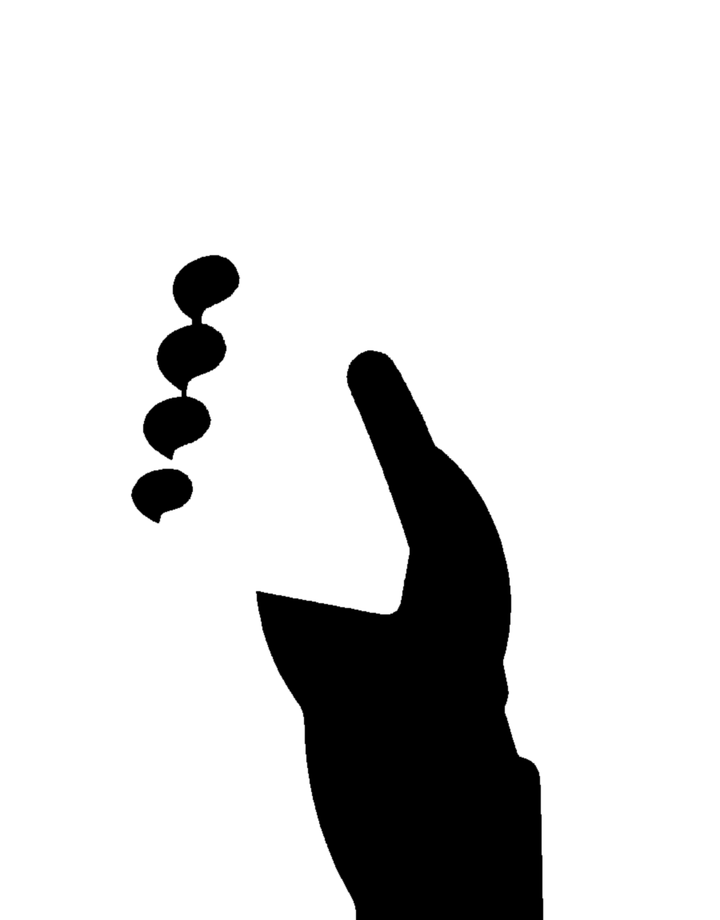
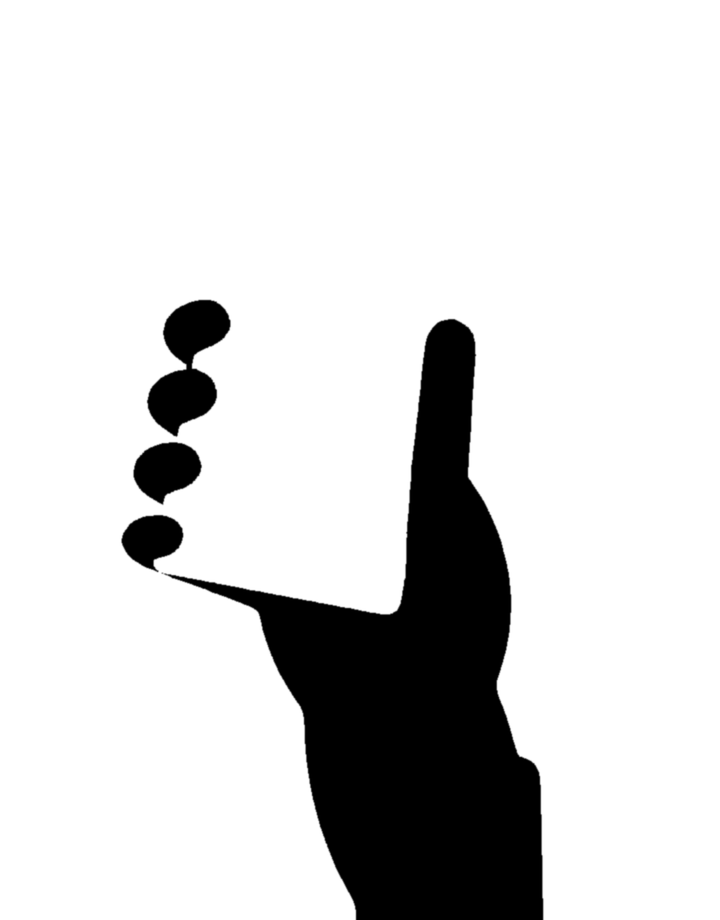
Karmapolis 0.79.1: pollice appoggiato sul lato destro del telefono, come in GTA
Claude-Session: https://claude.ai/code/session_014aG1BPmnfW4DkrHjrCXBkN

Changed region(s): [[0.1528, 0.2739, 0.3667, 0.6696], [0.4583, 0.3348, 0.6722, 0.6087], [0.6722, 0.7304, 0.7028, 0.7609]]

diff --git a/index.html b/index.html
@@ -157,7 +157,7 @@ body.phoneOn .hud.top,body.phoneOn #compass,body.phoneOn #greyHud,body.phoneOn #
 #phone{position:fixed;z-index:60;left:57%;bottom:-14vh;height:118vh;aspect-ratio:720/920;pointer-events:none;isolation:isolate;transform:translate(-50%,105%);transition:transform .26s cubic-bezier(.2,1.1,.35,1.06)}
 body.phoneOn #phone{transform:translate(-50%,0)}
 #phone>img{position:absolute;inset:0;width:100%;height:100%;user-select:none}
-#phone .skin{position:absolute;inset:0;background:var(--skin,#d9a27a);mix-blend-mode:multiply;-webkit-mask:url(telefono/mano-maschera.png) 0 0/100% 100% no-repeat;mask:url(telefono/mano-maschera.png) 0 0/100% 100% no-repeat}
+#phone .skin{position:absolute;inset:0;background:var(--skin,#d9a27a);mix-blend-mode:multiply;-webkit-mask:url(telefono/mano-maschera.png?v=0791) 0 0/100% 100% no-repeat;mask:url(telefono/mano-maschera.png?v=0791) 0 0/100% 100% no-repeat}
 #phone .scr{position:absolute;left:0;top:0;width:260px;height:480px;transform-origin:0 0;background:#14121c;border-radius:6px;overflow:hidden;pointer-events:auto;display:flex;flex-direction:column;color:#f4f1ea;font:500 15px/1.35 var(--body)}
 #phone .sbar{display:flex;justify-content:space-between;padding:5px 12px 3px;font:600 12px var(--body);opacity:.8}
 #phone .ptop{display:flex;align-items:center;gap:6px;background:#2c2a35;padding:8px 8px;font:700 18px var(--display)}
@@ -218,7 +218,7 @@ body.phoneOn #phone{transform:translate(-50%,0)}
 <canvas id="c" aria-label="Paesino in 3D visto dall'alto, stile cartone animato"></canvas>
 <div id="vig"></div>
 <div id="rotate"><div><div class="ph">📱</div><p>Gira il telefono in orizzontale<br>per giocare a Karmapolis</p><button id="rotFull" type="button">⛶ Schermo intero</button><p style="font-size:13px;opacity:.75;margin-top:14px">Su iPhone controlla che il blocco rotazione sia spento</p></div></div>
-<div id="phone" aria-hidden="true"><img src="telefono/telefono-mano.webp" alt="" draggable="false"><div class="skin"></div><div class="scr"><div class="sbar"><span id="phClock">12:00</span><span>📶 🔋</span></div><div class="ptop"><button id="phBack" type="button" aria-label="Indietro">‹</button><b id="phTitle">Karmapolis</b><span class="bolt">⚡</span></div><div class="pbody" id="phBody"></div></div></div>
+<div id="phone" aria-hidden="true"><img src="telefono/telefono-mano.webp?v=0791" alt="" draggable="false"><div class="skin"></div><div class="scr"><div class="sbar"><span id="phClock">12:00</span><span>📶 🔋</span></div><div class="ptop"><button id="phBack" type="button" aria-label="Indietro">‹</button><b id="phTitle">Karmapolis</b><span class="bolt">⚡</span></div><div class="pbody" id="phBody"></div></div></div>
 <div id="phoneToast" role="status"></div>
 <div id="tvHint" aria-live="polite"><div class="tb">📺 Ti consiglio di guardare il tutorial!</div><div class="ta"></div></div>
 <div id="news" role="dialog" aria-label="Novità della versione"><div class="nbox"><div class="nhead"><h2 id="newsTitle">📋 Novità</h2><p>Karmapolis è in prova (beta): ecco cosa è cambiato.</p></div><div class="nbody" id="newsBody"></div><div class="nfoot"><small id="newsWait">Sto costruendo il paese…</small><button id="newsGo" type="button" disabled>▶ Gioca</button></div></div></div>
@@ -250,7 +250,7 @@ body.phoneOn #phone{transform:translate(-50%,0)}
 <div id="copMenu" class="menuov" hidden><div class="card"><h3>👮 Fermato dalla polizia!<small id="copWhy">"Documenti, prego. Può pagare la multa… oppure viene con noi."</small></h3><div class="exl"><button id="copFine" type="button">💸 Paga la multa <small id="copFineTxt"></small></button><button id="copJail" type="button" style="background:#5d5468">🔒 Vado in prigione <small>da solo nessuno può pagarti la cauzione: livello perso</small></button></div></div></div>
 <div id="over" hidden><div class="card"><h2 id="goTitle">Game over</h2><p id="goStars" style="font-size:34px;margin:0 0 6px;letter-spacing:4px"></p><p id="goText"></p><div class="tbtn"><button id="restart" type="button">Ricomincia</button><button id="goNext" type="button" hidden style="background:#3fa66b">Livello successivo ▶</button></div><button id="goHomeBtn" class="ghost" type="button" style="margin-top:8px">🏠 Torna a casa</button></div></div>
 <div class="hud top"><div class="row">
-  <div class="card" id="titleCard"><h1 id='devTitle'>Karmapolis 0.79.0</h1><button id='helpBtn' class='ghost' type='button' hidden>❔ Comandi</button><button id='devReset' type='button' hidden style='background:#e0483e;color:#fff;font-weight:700;margin:4px 0'>🛠 RESET TOTALE (sviluppatore)</button>
+  <div class="card" id="titleCard"><h1 id='devTitle'>Karmapolis 0.79.1</h1><button id='helpBtn' class='ghost' type='button' hidden>❔ Comandi</button><button id='devReset' type='button' hidden style='background:#e0483e;color:#fff;font-weight:700;margin:4px 0'>🛠 RESET TOTALE (sviluppatore)</button>
     <p id='howto'>Joystick (o frecce/WASD) per muoverti. Vicino all'auto o allo scooter premi <b>Sali</b> (tasto E): in guida spingi il joystick dove vuoi andare (da vicino: su = gas, lati = sterzo). Trascina per ruotare la città, pizzica per lo zoom. Vicino ai passanti: 🍬 caramella o la cura giusta (😄 nervosi, 👂 solitari, 🌬 ansiosi, 🗣 pettegoli). Prova anche campane, fontana e panchine in piazza. Tocca per andare, <b>doppio tocco o levetta tutta in fondo per lo scatto</b>.</p></div>
   <div class="card" id="msg">Benvenuto in paese!</div>
 </div></div>
@@ -275,6 +275,7 @@ body.phoneOn #phone{transform:translate(-50%,0)}
 <script>/* 📋 Novità della versione (Teo, 26/11/2026: "come fanno tutti quando un programma è in beta") — la prima voce è la versione attuale */
 (function(){
 var NEWS=[
+ {v:'0.79.1',d:'26/11/2026',t:['📱 Pollice appoggiato sul lato destro del telefono, come in GTA; contorno della mano più liscio.']},
  {v:'0.79.0',d:'26/11/2026',t:['📱 Mano e telefono rifatti in 3D con Blender: mano vera che lo stringe, pollice sul bordo, in stile cartone, del colore della tua pelle.']},
  {v:'0.78.2',d:'26/11/2026',t:['Tornato il pulsante ⛶ dello schermo intero in basso a destra.']},
  {v:'0.78.1',d:'26/11/2026',t:['📱 Telefono con l\u2019inquadratura di GTA: la telecamera va agli occhi del personaggio, il telefono in mano al centro, inclinato, con lo sfondo sfocato.']},

diff --git a/strumenti/telefono-mano-cartone.py b/strumenti/telefono-mano-cartone.py
@@ -1,0 +1,19 @@
+from PIL import Image, ImageFilter, ImageChops
+import numpy as np, json, os
+a=Image.open('hand/base.png').convert('RGBA'); m=Image.open('hand/mask.png').convert('L')
+A=np.array(a).astype(np.float32); M=np.array(m)>127; alpha=A[...,3]>8
+L=(A[...,0]*0.3+A[...,1]*0.59+A[...,2]*0.11)/255
+band=np.where(L>0.78,1.0,np.where(L>0.56,0.84,0.68))
+for c in range(3): A[...,c]=np.where(M,band*255,A[...,c])
+def edge(mask,r):
+    im=Image.fromarray((mask*255).astype(np.uint8)); d=np.array(im.filter(ImageFilter.MaxFilter(r)))>127; e=np.array(im.filter(ImageFilter.MinFilter(r)))>127; return d&~e
+ink=np.array([42,34,51],np.float32); E=edge(alpha,7)|edge(M,5)
+Ef=np.array(Image.fromarray((E*255).astype(np.uint8)).filter(ImageFilter.GaussianBlur(0.9))).astype(np.float32)/255
+for c in range(3): A[...,c]=A[...,c]*(1-Ef)+ink[c]*Ef
+A[...,3]=np.maximum(A[...,3],Ef*255)
+out=Image.fromarray(A.clip(0,255).astype(np.uint8),'RGBA')
+Mi=Image.fromarray(((M&~E)*255).astype(np.uint8)).filter(ImageFilter.GaussianBlur(0.8))
+W=720; H=round(1150*W/900); out=out.resize((W,H),Image.LANCZOS); Mi=Mi.resize((W,H),Image.LANCZOS)
+out.save('hand/telefono-mano.webp',quality=88,method=6); mk=Image.new('LA',(W,H)); mk.putalpha(Mi); mk.save('hand/mano-maschera.png',optimize=True)
+c=json.load(open('hand/corners.json')); print([[round(x*W/900,2),round(y*W/900,2)] for x,y in c['corners']])
+prev=Image.new('RGB',(W,H),(120,140,170)); prev.paste(out,(0,0),out); sk=Image.new('RGB',(W,H),(217,162,122)); mul=ImageChops.multiply(prev,sk); prev.paste(mul,(0,0),Mi); prev.resize((360,round(H/2))).save('/tmp/hand_cel.png')

diff --git a/strumenti/blender-telefono-mano.py b/strumenti/blender-telefono-mano.py
@@ -36,12 +36,12 @@ blob((0.030,0.028,-0.070),(0.042,0.020,0.055),(0.0,-0.35,0))
 blob((0.050,0.030,-0.125),(0.034,0.026,0.06),(0.0,-0.4,0))   # verso il polso
 tube([(0.060,0.032,-0.12),(0.075,0.035,-0.20),(0.09,0.04,-0.30)],0.030)  # polso, fuori inquadratura
 # pollice: dal palmo sale davanti sul bordo destro
-tube([(0.066,0.016,-0.100),(0.054,-0.004,-0.068),(0.040,-0.0125,-0.042),(0.027,-0.0135,-0.022),(0.019,-0.0135,-0.011)],0.0108,0.78)
+tube([(0.060,0.020,-0.115),(0.050,0.004,-0.085),(0.0435,-0.0035,-0.050),(0.0415,-0.0055,-0.018),(0.0395,-0.0060,0.004)],0.0105,0.8)
 # dita dietro che girano attorno al bordo sinistro (si vedono le punte)
-for z,r in [(0.008,0.0092),(-0.014,0.0096),(-0.036,0.0092),(-0.057,0.0082)]:
+for z,r in [(-0.006,0.0092),(-0.028,0.0096),(-0.050,0.0092),(-0.071,0.0082)]:
     tube([(0.022,0.026,z-0.012),(-0.012,0.019,z-0.005),(-X-0.007,0.009,z),(-X-0.006,-0.004,z+0.002),(-X+0.004,-0.0095,z+0.004)],r,0.88)
     blob((-X+0.004,-0.0095,z+0.004),(r*0.86,r*0.86,r*0.86))
-blob((0.019,-0.0135,-0.011),(0.0085,0.0085,0.0085))
+blob((0.0395,-0.0060,0.004),(0.0084,0.0084,0.0084))
 # converto e unisco
 bpy.ops.object.select_all(action='DESELECT')
 for o in parts:
